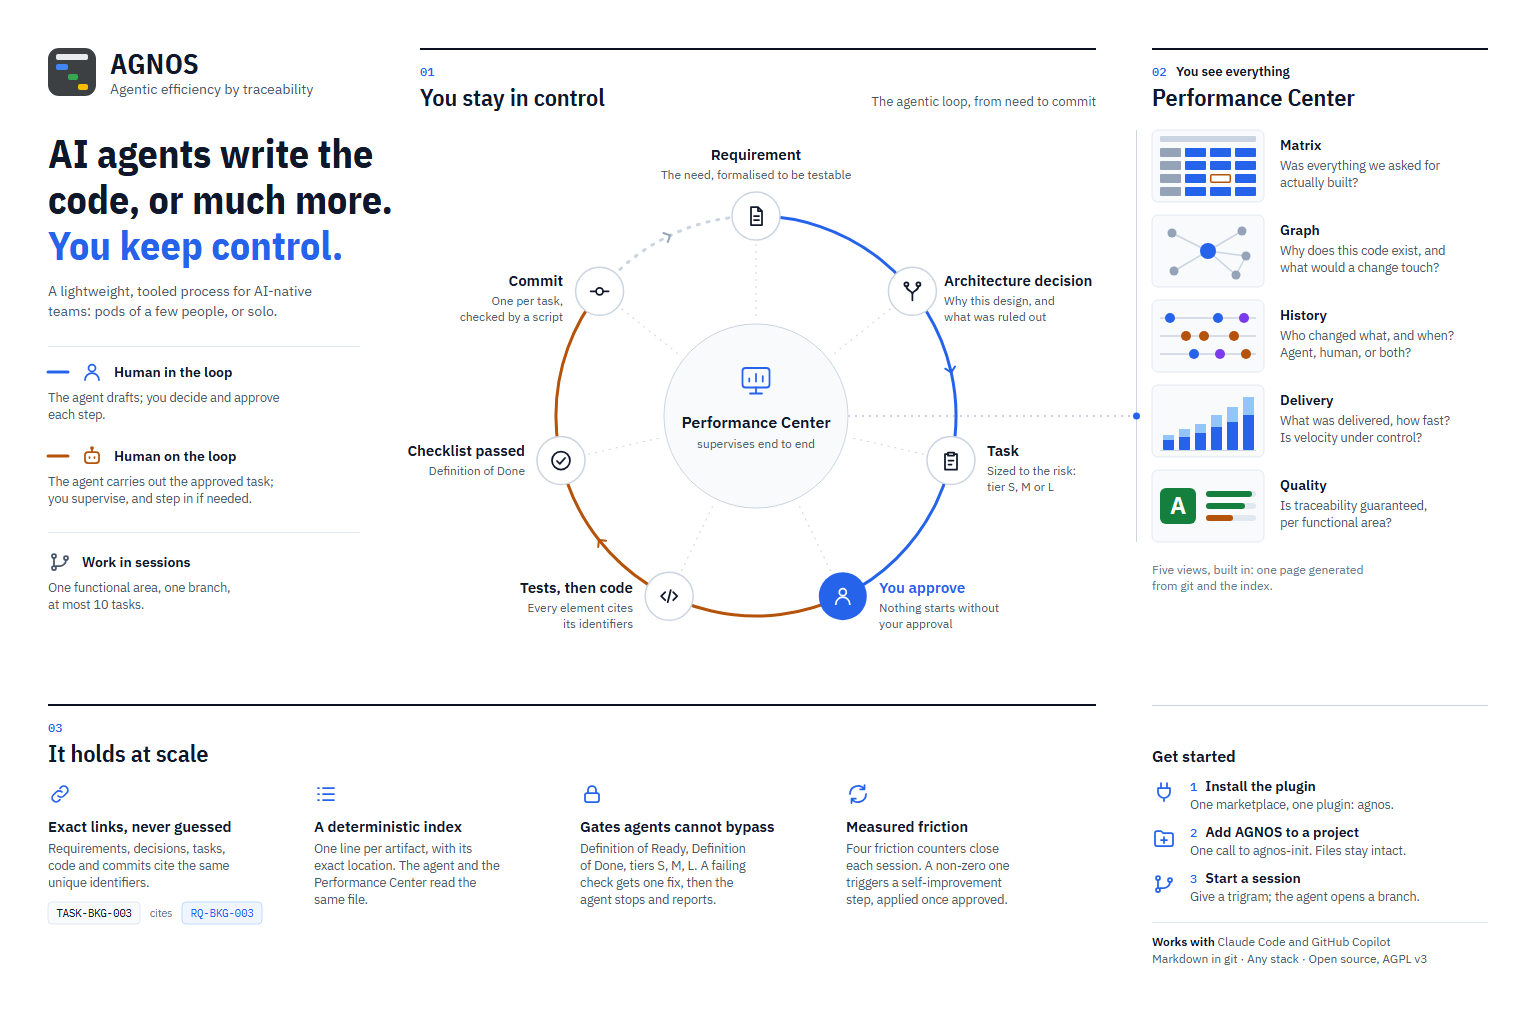
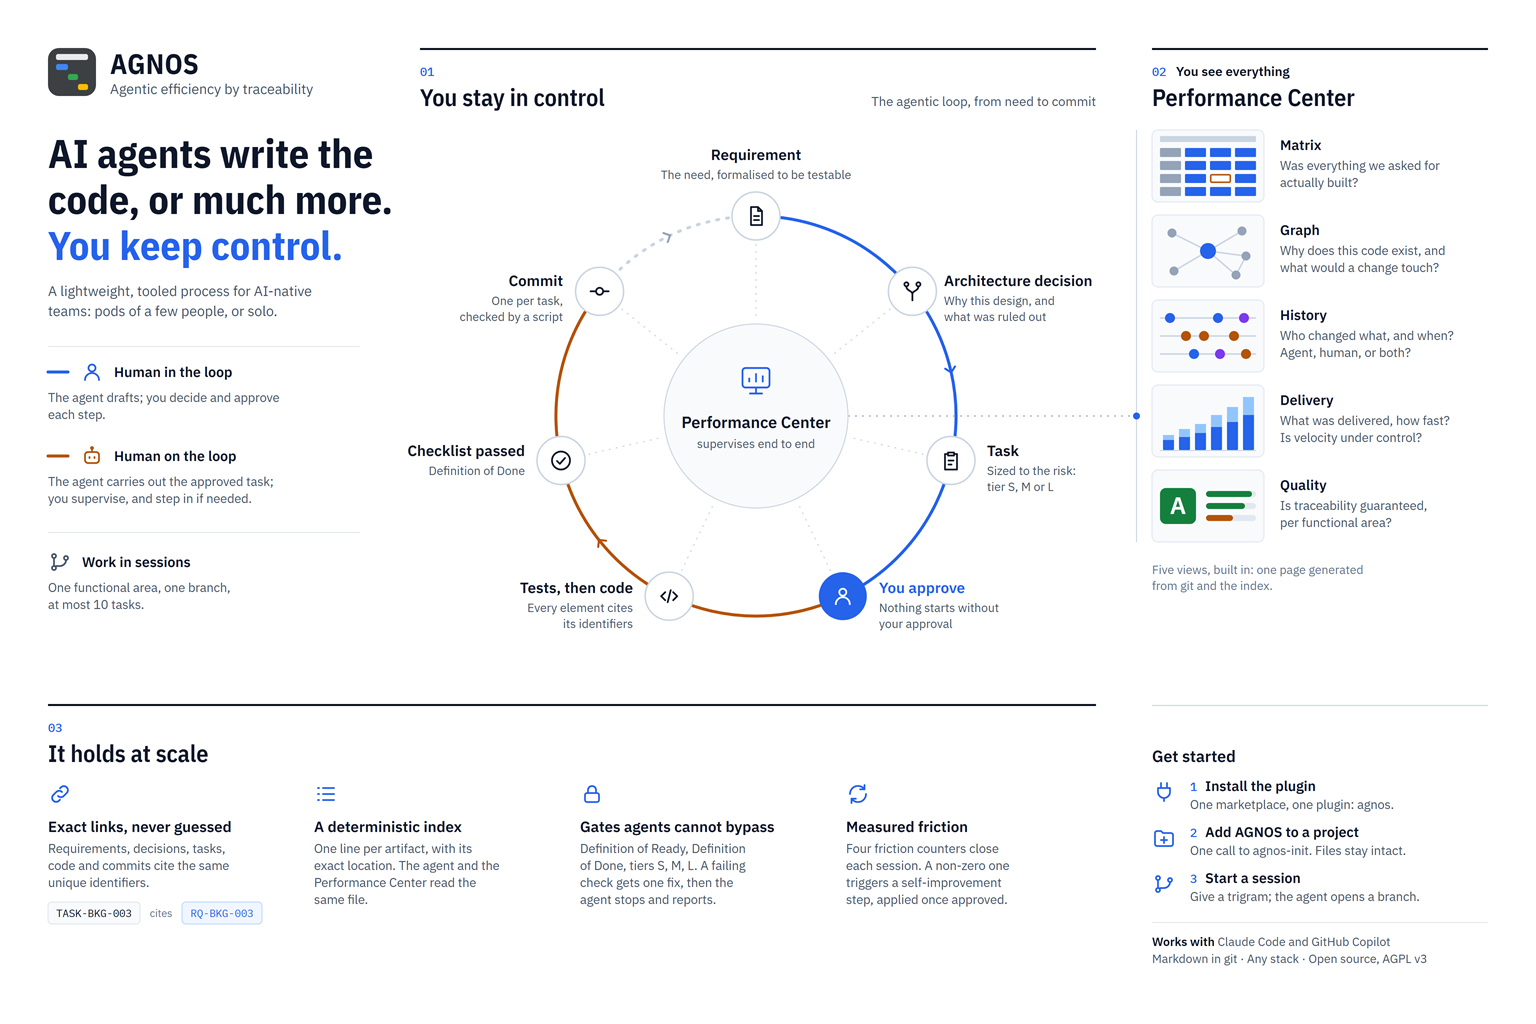
4.0.0

diff --git a/README.md b/README.md
@@ -4,7 +4,7 @@
 
 AGNOS is a lightweight, tooled process for *AI-native* development teams (pods of a few people, or solo). Requirements, decisions, tasks, code and commits carry the same identifiers: the work stays explainable.
 AGNOS puts two things first — **end-to-end traceability** and **deterministic indexing** — so that AI-driven development stays controllable as the codebase grows.
-The process can be monitored with the built-in AGNOS Performance Center application.
+The process can be monitored with the built-in AGNOS Performance Center application: see it on [the demo's Performance Center][perf-center].
 
 
 ![AGNOS overview](assets/agnos-overview.png)
@@ -29,7 +29,7 @@ COMPATIBILITY.md the tools and systems checked, CONTRIBUTING.md the map of this 
 | **`agnos-self-improvement`** | Turns the session's friction metrics into rules: the improvement goes into the rules file the project declares, one theme per iteration, within a line budget its scripts measure. |
 | **`agnos-perf-center`** | Generates a self-contained HTML page, opened from disk, to monitor the process's execution on a project. It explores its traceability matrix — coverage, quality score and grade, interactive graph — down to the implementing functions and their call graph, and, with `--history`, who (humans and agents) changed each requirement and its code over time. |
 
-**Delivered as:** one marketplace holding the plugin `agnos`, for Claude Code and GitHub Copilot.
+**Delivered as:** one marketplace, [the AGNOS marketplace][marketplace], holding the plugin `agnos`, for Claude Code and GitHub Copilot.
 
 ---
 
@@ -67,23 +67,25 @@ The tools and systems AGNOS was checked on are listed in [COMPATIBILITY.md](COMP
 
 | Tool | Commands |
 |---|---|
-| Claude Code | `claude plugin marketplace add https://github.com/spashx/agnos-marketplace`, then `claude plugin install agnos@agnos-marketplace` |
-| GitHub Copilot CLI | `copilot plugin marketplace add https://github.com/spashx/agnos-marketplace`, then `copilot plugin install agnos@agnos-marketplace` |
+| Claude Code | `claude plugin marketplace add spashx/agnos-marketplace`, then `claude plugin install agnos@agnos-marketplace` |
+| GitHub Copilot CLI | `copilot plugin marketplace add spashx/agnos-marketplace`, then `copilot plugin install agnos@agnos-marketplace` |
+
+`spashx/agnos-marketplace` is the GitHub repository of [the AGNOS marketplace][marketplace].
 
 **1.2 Claude Code app or VS Code extension**
 - In Claude chat, type `/`, then choose Manage plugins, then select Marketplaces
-- Add the url of the agnos marketplace: https://github.com/spashx/agnos-marketplace
+- Add the url of [the AGNOS marketplace][marketplace]
 - Once added, switch to the Plugins tab, and install the agnos plugin from the available plugins (recommended: "install for you")
 
 **1.3 GitHub Copilot app**
 - In the Customize menu, click "+ Add/Manage marketplaces" at the top right
-- Add the url of the agnos marketplace: https://github.com/spashx/agnos-marketplace
+- Add the url of [the AGNOS marketplace][marketplace]
 - search "agnos" in the search bar and install the plugin
 
 **1.4 GitHub Copilot VS Code extension | VS Code Agent app**
 - From GitHub Copilot chat, go to "Open customizations"
 - Browse/All Sources/Configure Marketplaces
-- Add a marketplace with the URL https://github.com/spashx/agnos-marketplace
+- Add a marketplace with the URL of [the AGNOS marketplace][marketplace]
 - Browse AGNOS marketplace, select the agnos plugin and install
 
 
@@ -96,7 +98,7 @@ between its `AGNOS:BEGIN` and `AGNOS:END` markers. To update a project after AGN
 **Then read `agnos-process/AGNOS-GETTING-STARTED.md`**, which `agnos-init` wrote into your project's process folder, next to
 `agnos-process/VERSION.txt`, which gives the installed AGNOS version: a complete worked session, what you type and what comes back, and the
 concepts behind it. Its source is
-[the skill's template](plugins/agnos/skills/agnos-init/assets/templates/AGNOS-GETTING-STARTED.md).
+[the guide in the AGNOS marketplace][guide].
 
 ### Keeping the process in the agent's context
 
@@ -140,3 +142,8 @@ The block of `CLAUDE.md` and `AGENTS.md` also holds these notes, as HTML comment
 ## License
 
 AGNOS is distributed under the GNU Affero General Public License v3: see [LICENSE.md](LICENSE.md).
+
+<!-- The addresses of assets/links.json, each written once; a test checks them -->
+[marketplace]: https://github.com/spashx/agnos-marketplace
+[guide]: https://github.com/spashx/agnos-marketplace/blob/main/plugins/agnos/skills/agnos-init/assets/templates/AGNOS-GETTING-STARTED.md
+[perf-center]: https://spashx.github.io/agnos-website/demo/PERF-CENTER.html

diff --git a/plugins/agnos/skills/agnos-instructions/SKILL.md b/plugins/agnos/skills/agnos-instructions/SKILL.md
@@ -81,8 +81,8 @@ The unique identifier shall be in the format: `<TYPE>-<TRI>-<NNN>` where:
   - `<NNN>` is a zero-padded sequence number (e.g. 001, 002, etc) that is incremented for each new artifact of the same type and feature.
 
 ### MANDATORY TRACEABILITY
-- EACH ARTIFACT SHALL reference all related artifacts by their unique identifier.
-- Requirement IDs SHALL appear in ALL related artefacts: feature files, ADR files, Plan files, task descriptions, file headers, class/function doc comments, those of test functions included.
+- EACH ARTIFACT SHALL reference ALL related artifacts by their unique identifier.
+- Requirement IDs SHALL appear in ALL related artefacts: feature files, ADR files, Plan files, task descriptions, file headers, class AND function doc comments, those of test functions included.
 - The user SHALL be able to grep any requirement ID and find all related code and documentation.
 - An artifact with no traceable requirement ID is considered incomplete and SHALL NOT be delivered.
 - ALWAYS put traceability references into comments, never as plain text, in every file outside agnos-process/; the artifact files of agnos-process/ hold their own IDs as plain text.
@@ -249,9 +249,7 @@ Brief description of the feature's purpose and scope.
   ```
 - Every decision in ADR SHALL have a unique identifier in the format `DEC-<TRI>-<NNN>` (e.g., `DEC-USR-001`), consistent with the universal ID schema, that can be referenced in plans, tasks, and source code. Each decision SHALL be declared as a `### DEC-<TRI>-<NNN>: <title>` heading under `## Decision`, so that it is indexed.
 - The `## Diagram` section SHALL hold at least two Mermaid diagrams, scoped to the ADR and the requirements it cites:
-  a static one showing the domain's entity types and their relations (default: UML class diagram, `classDiagram`),
-  and a dynamic one showing their interactions (default: UML sequence diagram, `sequenceDiagram`).
-  Other diagrams MAY be added when they make the proposed technical solution easier to grasp.
+  a static one showing the domain's entity types and a dynamic one showing their interactions (class and sequence diagrams, state diagrams...). Other diagrams based on other mermaid syntax MAY be added to help the human understand the proposed technical solution.
 - The design system itself SHALL be captured as an ADR (token structure, tiers, generation/verification mechanism). Every subsequent UI-affecting ADR SHALL reference it.
 
 ### Traceability in ADRs and DEC
@@ -318,7 +316,6 @@ Tag every task with a tier before starting. The tier determines which steps are 
 
 ### Plan/Task File Template
 
-
 Every plan file in `agnos-process/3.plan/` SHALL follow this structure:
 
 ```
@@ -355,7 +352,7 @@ This plan implements the tasks in the format specified below.
 - ALL generated code SHALL comply with **SOLID** principles (Single Responsibility, Open/Closed, Liskov Substitution, Interface Segregation, Dependency Inversion).
 - **No duplicated/magic literals (strings or numbers).** EVERY constant SHALL be declared as a named class-level or method-level constant. 
 - **UI code**: EVERY visual constant (color, spacing, size, alpha, font metric) SHALL be initialized from design-system tokens. Local named constants MAY alias a token for readability, but SHALL NOT hold a raw visual value.
-- Code SHALL contains traceable references to the requirement ID(s) and ADR decisions ID(s) it implements in the form of comments or docstrings. for C/C++ add references into the implementation file instead of header file.
+- Code SHALL contains traceable references to the requirement ID(s) and ADR decisions ID(s) it implements in the form of comments or docstrings. for C/C++, add references into the implementation file (.c, .cpp) instead of the header file (.h, .hpp).
 
 
 ### Testing

diff --git a/COMPATIBILITY.md b/COMPATIBILITY.md
@@ -1,15 +1,13 @@
 # Compatibility
 
-What was tested of the plugin `agnos`, per tool and system, and what was not. Each row states only what was observed; this file is
-updated after each check.
+What was tested of the plugin `agnos`, per tool and system. This file is updated after each check.
+Tests have been performed with remote and local marketplace.
 
-| Tool or system | Result |
-|---|---|
-| Claude Code, Windows | Installed from a local folder; `agnos-init` and `agnos-index` run; the block loads the process; an agent found and run. A full session on a new repository ran as the process says, with a marketplace built before `AGNOS-GETTING-STARTED.md`: START SESSION with its question, the index and the branch, a requirement and a plan, the task approved, test first, `commit-task`, the end of the session, and `agnos-perf-center`. |
-| GitHub Copilot CLI, Windows | Installed from a local folder; `agnos-init` and `agnos-index` run; the block loads the process on a work question, not on a trivial one; an agent found and run. A full session is not tested yet. |
-| GitHub Copilot in VS Code | Installed from Copilot CLI, which shares its configuration; the plugin is read in place from the marketplace's folder. Skills listed; `agnos-init` gives its two steps; the block loads the process in the new conversation. A full session on a new repository ran: START SESSION with its questions, the index and the branch, `validate-ids` run, a requirement and a plan, the task approved, `commit-task`'s message, and `agnos-perf-center` with `--call-graph` and `--history`. Seen departing from the process: the commit staged chosen files instead of `git add .`, the functions cited no requirement, and no failing test run was shown before the code. |
-| Linux | Scripts and their tests pass on Ubuntu 24.04, except the tests that need a browser or tree-sitter, not run there. No agent tool was run on it. |
-| macOS | Not tested: it shares the Linux scripts. |
-| Install from a remote Git repository | Not tested. |
+| Tool | Windows | Linux | macOS |
+|---|:-:|:-:|:-:|
+| Claude Code | Tested | Tested | Not tested |
+| GitHub Copilot (CLI and VS Code) | Tested | Tested | Not tested |
+
+macOS is not tested: it shares the Linux scripts. 
 
 **Scripts for:** Windows (PowerShell 5.1), Linux and macOS (bash).

diff --git a/CHANGELOG.md b/CHANGELOG.md
@@ -4,11 +4,23 @@ All notable changes to this repository are documented in this file.
 
 The format is based on [Keep a Changelog](https://keepachangelog.com/en/1.1.0/).
 
+## [4.0.0]
+
+### Changed
+- `CONTRIBUTING.md` rewritten: a pull request is accepted only if it was made with AGNOS, with the steps that make a change so, the grounds on which a reviewer declines a pull request, and the branches: `feature/<TRI>`, `dev` (where pull requests land) and `release` (maintainers' snapshots only)
+- AGNOS addresses (process repository, marketplace, Performance Center of the demo) are declared once and checked in the documents by a test; the marketplace manifest names the process repository
+- `README.md` links the Performance Center, the marketplace and the user's guide; the guide names the Performance Center and its options
+
+### Fixed
+- `README.md` overview illustration: `assets/agnos-overview.png` corrected after 3.6.2
+- The instructions' ADR diagram rule presents the class and sequence diagrams as examples of the static and dynamic diagrams, not as fixed UML defaults, and allows other Mermaid diagrams to help the reader
+- The instructions' C/C++ traceability rule names the implementation files (`.c`, `.cpp`) where references go, and the headers (`.h`, `.hpp`) they are not put in
+- The demo's product runs from its README: the service starts with `python -m roombook` on the rooms of `service/rooms.json`, and the web interface and the command-line tool show them
+
 ## [3.6.2]
 
 ### Changed
 - `README.md` overview illustration replaced: `assets/agnos-overview.png` is the new image, and its SVG sources stay in `assets/`, not delivered with the plugin
-- END SESSION step 4 of the instructions recommends a context reset: once the steps are done and no task remains, the agent tells you to run the context-reset command (`/clear` on Claude Code and GitHub Copilot)
 
 ## [3.6.1]
 

diff --git a/plugins/agnos/skills/agnos-init/assets/templates/AGNOS-GETTING-STARTED.md b/plugins/agnos/skills/agnos-init/assets/templates/AGNOS-GETTING-STARTED.md
@@ -798,7 +798,7 @@ One row per stage. This is the whole human side of a session.
 | 5. Implement | `TASK-EXP-001 approved. Implement it.` | Source with ID comments, named constants |
 | 6. Test | `Run the tests.` | Gherkin-named tests, run under `session.platform` |
 | 7. Commit | *(agent proposes)* `commit-task TASK-EXP-001 ADR-EXP-001 <description>` | `feat(EXP): ADR-EXP-001/TASK-EXP-001 <description>` |
-| 8. Trace | `Generate the traceability matrix for src and tests.` | `PERF-CENTER.html` — coverage, quality score and grade, graph down to functions |
+| 8. Perf Center | `Generate the AGNOS Performance Center for src and tests.` — options: `--call-graph` (functions and calls), `--history` (who changed what, deliveries; `--history-since 6.months`) | `PERF-CENTER.html` — Performance Center: matrix, coverage, quality score and grade, graph; call graph and history with their options |
 | 9. Close | `End of session.` | Summary report with deferred work, blockers and friction metrics, then a reminder to run `/clear` |
 
 Corrections at any point are just sentences: *"RQ-EXP-002 should be 20 MB, not 50."* — *"Drop the retry logic, it's
